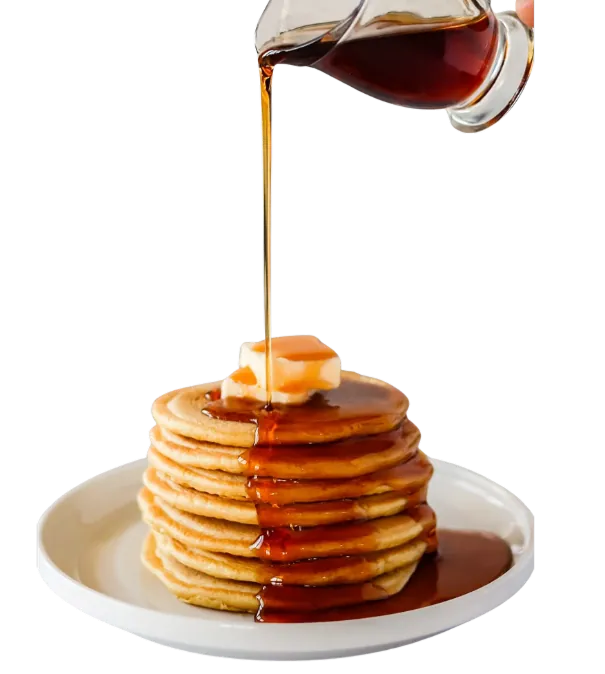
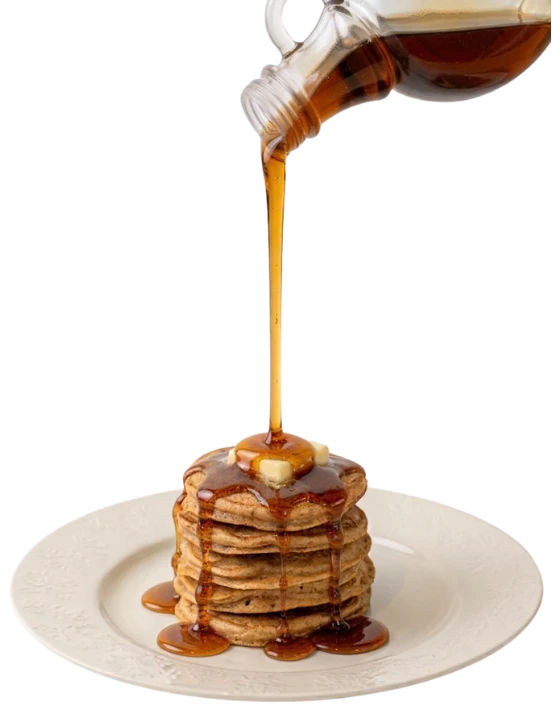
footer etc

diff --git a/assets/flos-best.css b/assets/flos-best.css
@@ -1066,7 +1066,7 @@ body.gradient,
   justify-content: space-between;
   gap: 16px;
   width: 100%;
-  margin-top: calc(min(520px, 100vw) * 1.11405 - 128px + 20px);
+  margin-top: calc(min(520px, 108vw) * 1.28623 - 128px + 20px);
 }
 
 .flos-footer .footer-main .pill-button {
@@ -1185,6 +1185,37 @@ textarea.field__input:not(:placeholder-shown) {
 .flos-footer .footer__content-bottom-wrapper {
   justify-content: center;
   gap: 16px;
+}
+
+.flos-footer .footer__content-bottom > .footer__content-bottom-wrapper:last-child {
+  flex-direction: column;
+  align-items: center;
+  gap: 8px;
+}
+
+.flos-footer .policies {
+  display: flex;
+  flex-wrap: wrap;
+  justify-content: center;
+  gap: 4px 16px;
+  margin: 0;
+  padding: 0;
+}
+
+.flos-footer .policies li::before {
+  content: none;
+}
+
+.flos-footer .policies li a {
+  display: inline-flex;
+  align-items: center;
+  min-height: 44px;
+  padding: 0;
+}
+
+.flos-footer .footer__content-bottom > .footer__content-bottom-wrapper .footer__copyright {
+  margin-top: 0;
+  text-align: center;
 }
 
 .flos-footer .list-payment {
@@ -1559,7 +1590,7 @@ textarea.field__input:not(:placeholder-shown) {
   }
 
   .flos-footer .footer-main .pill-button {
-    margin-top: max(480px, calc(min(500px, 58vw) * 1.11405 - 126px));
+    margin-top: max(480px, calc(min(500px, 58vw) * 1.28623 - 126px));
   }
 
 }
@@ -1618,7 +1649,7 @@ textarea.field__input:not(:placeholder-shown) {
     right: auto;
     left: auto;
     width: 100%;
-    margin-top: calc(min(500px, 58vw) * 1.11405 - 176px + 20px);
+    margin-top: calc(min(500px, 58vw) * 1.28623 - 176px + 20px);
   }
 
   .flos-footer .footer-main .pill-button {
@@ -1628,7 +1659,7 @@ textarea.field__input:not(:placeholder-shown) {
 
 @media (max-width: 760px) {
   .flos-footer .footer-bar {
-    margin-top: calc(min(520px, 100vw) * 1.11405 - 128px + 20px);
+    margin-top: calc(min(520px, 108vw) * 1.28623 - 128px + 20px);
   }
 }
 
